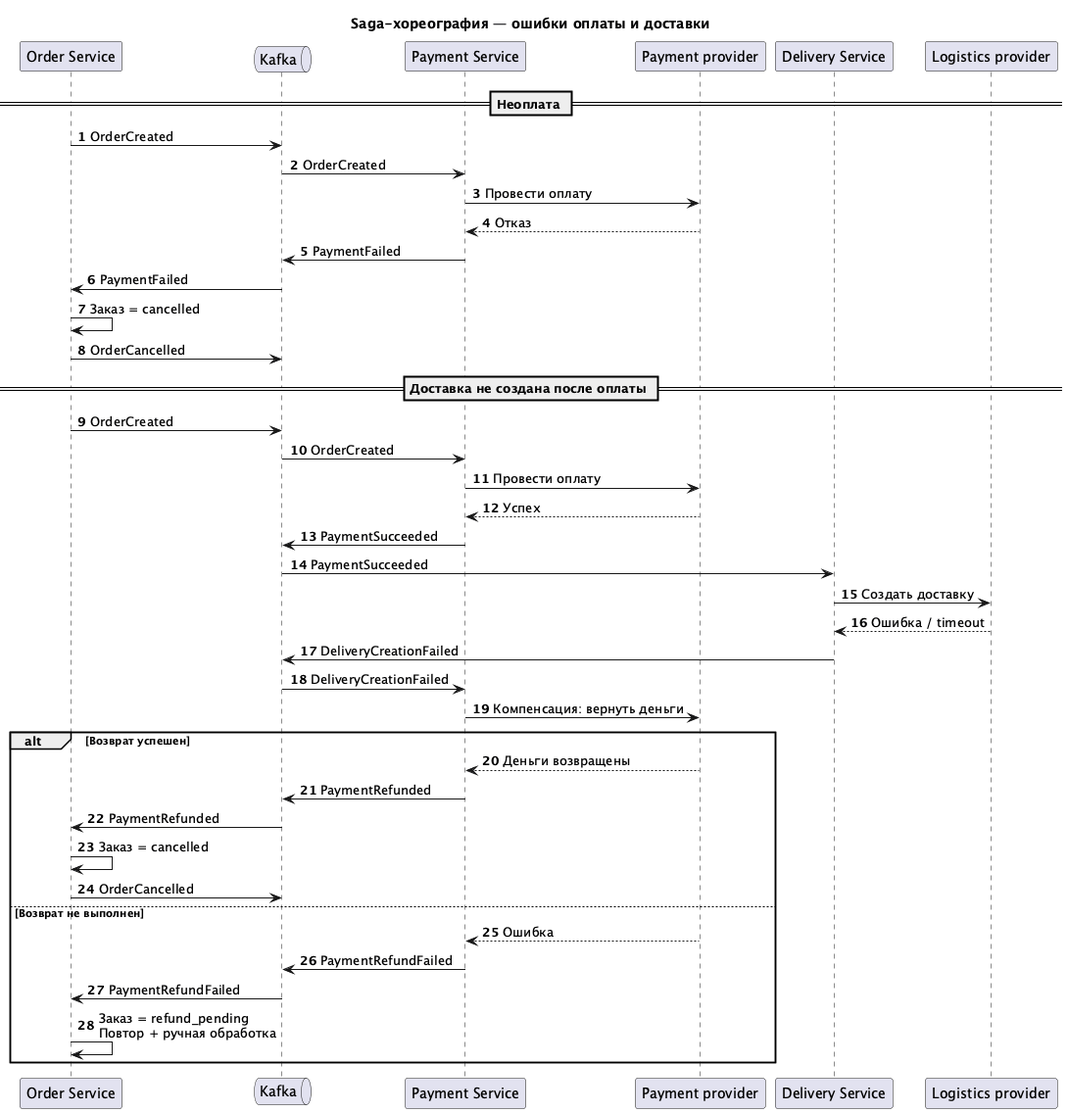
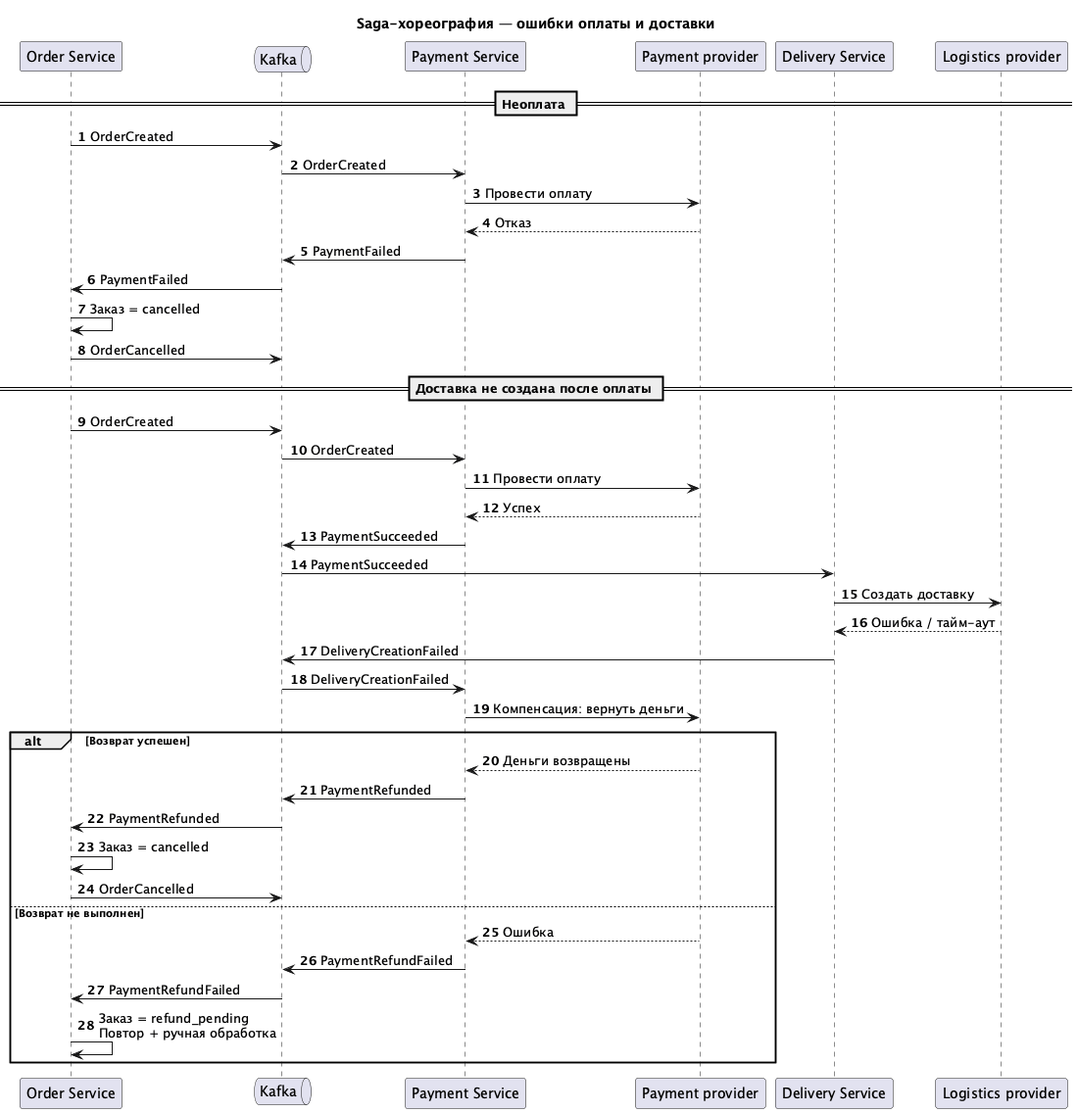
Polish submission wording

diff --git a/Task2/ADR.md b/Task2/ADR.md
@@ -21,34 +21,34 @@
 | № | Действующие лица или системы | Use Case | Описание |
 | :-: | :- | :- | :- |
 | 1 | Покупатель, клиентское приложение | Просмотреть список заказов | Покупатель открывает личный кабинет и видит свои заказы: дату оформления, сумму, способ доставки и итоговый статус. |
-| 2 | Покупатель, клиентское приложение | Просмотреть детали заказа | Покупатель открывает заказ и видит товары, количество, цену на момент покупки, итоговую сумму, способ оплаты, способ доставки и финальный статус. |
-| 3 | Покупатель, сервис чеков | Скачать чек | По явному действию покупателя система возвращает ссылку на чек. Чек не подгружается заранее для каждого заказа в списке. |
-| 4 | Покупатель, Order Service, Review Service | Повторить заказ или оставить отзыв | Из деталей заказа покупатель запускает отдельный командный сценарий: повтор заказа или отзыв о товаре. История сама заказы не изменяет. |
+| 2 | Покупатель, клиентское приложение | Просмотреть детали заказа | Покупатель открывает заказ и видит товары, количество, цену на момент покупки, итоговую сумму, способ оплаты, способ доставки и конечный статус. |
+| 3 | Покупатель, сервис чеков | Скачать чек | Покупатель нажимает на скачивание чека, после этого система отдаёт ссылку. Для списка заказов чеки заранее не подгружаются. |
+| 4 | Покупатель, Order Service, Review Service | Повторить заказ или оставить отзыв | Из деталей заказа покупатель запускает отдельное действие: повтор заказа или отзыв о товаре. История сама заказы не меняет. |
 | 5 | Доменные сервисы, History Projection Service | Обновить историю по событиям | История обновляется после событий заказа, оплаты, доставки, отмены и возврата. Источники событий не знают о новых клиентских каналах. |
-| 6 | Мобильное приложение, сайт, чат-бот, ассистент | Получить единый клиентский API | Новый канал обращается к Customer BFF, а не собирает данные напрямую из сервисов заказов, каталога, оплаты и доставки. |
+| 6 | Мобильное приложение, сайт, чат-бот, ассистент | Получить единый клиентский API | Новый канал обращается к Customer BFF и не собирает данные напрямую из сервисов заказов, каталога, оплаты и доставки. |
 
 ### **Нефункциональные требования**
 
 | № | Требование |
 | :-: | :- |
 | 1 | Время ответа пользовательских операций: p98 не больше 0,3 секунды, p99,99 не больше 1 секунды при штатной нагрузке. |
-| 2 | Решение должно масштабироваться от MVP с 2 500 заказами в день до 40 000+ заказов в день без роста числа синхронных межсервисных вызовов на один экран. |
+| 2 | Решение должно выдержать рост от MVP с 2 500 заказами в день до 40 000+ заказов в день без набора синхронных вызовов к разным сервисам для каждого экрана. |
 | 3 | Для истории допускается согласованность с задержкой: проекция может отставать от доменного события до 30 секунд. Клиент должен видеть понятный статус, если данные ещё обновляются. |
 | 4 | Доставка событий выполняется как минимум один раз. Обработчики проекции должны быть идемпотентными по `eventId`. |
-| 5 | Недоступность каталога, оплаты или доставки не должна ломать чтение уже собранной истории покупок. |
+| 5 | Если каталог, оплата или доставка временно недоступны, уже собранная история покупок всё равно должна открываться. |
 | 6 | Проекцию нужно уметь восстановить повторным чтением событий из Kafka. |
 
 ### **Решение**
 
 Выбрана комбинация **CQRS** и **API Composition**.
 
-`History Projection Service` подписывается на события Kafka и собирает отдельную модель чтения `OrderHistory`. В неё входят заказ, позиции заказа, цены на момент покупки, способ оплаты, способ доставки, итоговый статус и ссылка на чек. При создании заказа сохраняется снимок товарных позиций и цен, поэтому история не меняется из-за переименования товара или новой цены в каталоге.
+`History Projection Service` читает события из Kafka и собирает отдельную модель для чтения `OrderHistory`. В неё входят заказ, позиции заказа, цены на момент покупки, способ оплаты, способ доставки, итоговый статус и ссылка на чек. При создании заказа сохраняется снимок товарных позиций и цен, поэтому старая история не меняется из-за переименования товара или новой цены в каталоге.
 
-`Customer BFF` отдаёт клиентам методы `GET /me/orders` и `GET /me/orders/{orderId}`. В обычном сценарии BFF делает один запрос к базе модели чтения. За чеком он обращается к сервису чеков только по действию покупателя, чтобы не замедлять список заказов.
+`Customer BFF` отдаёт клиентам методы `GET /me/orders` и `GET /me/orders/{orderId}`. В обычном сценарии BFF делает один запрос к базе модели чтения. К сервису чеков он ходит только после действия покупателя, чтобы список заказов не ждал лишний внешний вызов.
 
-Источником истины для команд остаются доменные сервисы. Повтор заказа, отзыв и скачивание чека запускаются отдельными сценариями, а не меняют историю напрямую.
+Команды остаются в доменных сервисах. Повтор заказа, отзыв и скачивание чека запускаются отдельными сценариями и не меняют историю напрямую.
 
-Для защиты от повторной доставки событий проекция хранит `eventId`, версию события и offset. Повтор события не должен менять результат. Если модель чтения потеряна, её можно пересобрать из Kafka.
+Чтобы повтор события не портил данные, проекция хранит `eventId`, версию события и offset. Если модель чтения потеряна, её можно пересобрать из Kafka.
 
 Контейнерная диаграмма решения приложена в `c2-order-history-architecture.puml` и `c2-order-history-architecture.png`.
 
@@ -56,14 +56,14 @@
 
 | Альтернатива | Плюсы | Минусы | Решение |
 | --- | --- | --- | --- |
-| Только API Composition: BFF синхронно вызывает Order, Catalog, Payment и Delivery | Быстрый старт, данные всегда свежие | Для экрана деталей появляется цепочка HTTP-вызовов. Задержка и риск каскадного сбоя растут вместе с числом сервисов. В p98 0,3 секунды уложиться сложно. | Отклонено как основной путь |
-| Только CQRS: клиент читает модель чтения напрямую | Быстрое чтение, меньше промежуточных компонентов | Клиенты привязываются к структуре базы или внутреннего API проекции. Трудно развивать разные форматы для мобильного приложения, сайта и чат-бота. | Отклонено |
-| Event Sourcing для заказов и истории | Полный аудит, состояние можно восстановить из событий | Для MVP это слишком сложный вариант: нужны версии событий, снимки агрегатов, правила миграции и отдельный подход к запросам. | Отложено |
+| Только API Composition: BFF синхронно вызывает Order, Catalog, Payment и Delivery | Быстрый старт, данные всегда свежие | Для деталей заказа получается цепочка HTTP-вызовов. Чем больше сервисов, тем выше задержка и риск каскадного сбоя. В p98 0,3 секунды уложиться сложно. | Отклонено как основной путь |
+| Только CQRS: клиент читает модель чтения напрямую | Быстрое чтение, меньше промежуточных компонентов | Клиенты привязываются к структуре базы или внутреннего API проекции. Потом трудно делать разные форматы для мобильного приложения, сайта и чат-бота. | Отклонено |
+| Event Sourcing для заказов и истории | Полный аудит, состояние можно восстановить из событий | Для MVP это слишком тяжёлый вариант: нужны версии событий, снимки агрегатов, правила миграции и отдельный подход к запросам. | Отложено |
 | Общая база данных и SQL JOIN между сервисами | Просто на старте | Нарушает автономность сервисов, создаёт общую точку отказа, мешает независимому развитию команд. | Отклонено |
 
 ### **Недостатки, ограничения, риски**
 
-1. История обновляется не мгновенно. Для покупателя это допустимо, но интерфейс должен показывать состояние обновления, если заказ только что изменился.
-2. Появляется ещё один сервис и ещё одна база данных. Нужны метрики отставания consumer, DLQ, алерты и регламент восстановления проекции.
+1. История обновляется не сразу. Для покупателя это допустимо, но интерфейс должен показывать состояние обновления, если заказ только что изменился.
+2. Появляется ещё один сервис и ещё одна база данных. Нужны метрики отставания потребителя Kafka, DLQ, алерты и регламент восстановления проекции.
 3. Данные дублируются. Это осознанная денормализация ради быстрого чтения. Корректность обеспечивают события, идемпотентные обработчики и возможность пересборки.
 4. При изменении схемы событий требуется версионирование через `eventVersion` и проверка обратной совместимости.

diff --git a/Task3/README.md b/Task3/README.md
@@ -4,10 +4,10 @@
 
 - `deployment.yaml` запускает `ghcr.io/yandex-practicum/scaletestapp:latest`, стартует с одной реплики и задаёт лимит памяти `30Mi`.
 - `service.yaml` открывает приложение внутри кластера на порту `8080`.
-- `hpa.yaml` масштабирует deployment по памяти: целевая утилизация `80%`, диапазон от 1 до 10 реплик.
+- `hpa.yaml` масштабирует deployment по памяти: цель `80%`, от 1 до 10 реплик.
 - `locustfile.py` содержит сценарий из задания: пользователь вызывает `GET /`.
 
-`resources.requests.memory` выставлен в `8Mi`, а лимит оставлен `30Mi`. HPA считает процент утилизации от request, поэтому такой request позволяет увидеть рост раньше, чем контейнер упрётся в лимит памяти.
+`resources.requests.memory` выставлен в `8Mi`, лимит оставлен `30Mi`. HPA считает процент утилизации от request, поэтому с таким request видно масштабирование до того, как контейнер упирается в лимит памяти.
 
 ## Команды запуска
 
@@ -22,7 +22,7 @@ kubectl top pods
 kubectl get hpa -w
 ```
 
-Для локального доступа к приложению использовался tunnel Minikube:
+Для локального доступа к приложению использовался туннель Minikube:
 
 ```bash
 minikube service scaletestapp --url
@@ -43,7 +43,7 @@ Locust запускался из корня репозитория:
   --html Task3/evidence/locust-service-report.html
 ```
 
-Для проверки масштабирования также снимался watch HPA во время более тяжёлой нагрузки:
+Во время более тяжёлой нагрузки отдельно снималось состояние HPA:
 
 ```bash
 kubectl get hpa scaletestapp
@@ -55,12 +55,12 @@ kubectl describe hpa scaletestapp
 
 ## Доказательства
 
-Фактические артефакты лежат в `Task3/evidence/`:
+Что лежит в `Task3/evidence/`:
 
 - `before-load.log` — состояние перед нагрузкой: одна реплика.
-- `hpa-watch-balanced.log` — динамика под нагрузкой: HPA увидел `memory: 367%/80%` и начал поднимать deployment с 1 до 2 и 4 pod-ов.
-- `after-load.log`, `hpa-describe.log`, `events-after-load.log` — итоговое состояние после повторного прогона: deployment дошёл до 10 pod-ов, есть события `SuccessfulRescale`.
-- `kubernetes-dashboard-scaletestapp-full.png` — реальный скриншот Minikube Dashboard: deployment `scaletestapp`, `Pods status: 10 / 10`.
+- `hpa-watch-balanced.log` — динамика под нагрузкой: HPA увидел `memory: 367%/80%` и начал увеличивать число pod-ов с 1 до 2 и 4.
+- `after-load.log`, `hpa-describe.log`, `events-after-load.log` — состояние после повторного прогона: deployment дошёл до 10 pod-ов, есть события `SuccessfulRescale`.
+- `kubernetes-dashboard-scaletestapp-full.png` — скриншот Minikube Dashboard: deployment `scaletestapp`, `Pods status: 10 / 10`.
 - `locust-service-report.html` и `locust-service-report.png` — отчёт Locust: около 4 тысяч запросов, ошибок 0.
 - `locust-service_*.csv` — CSV-выгрузка Locust.
 
@@ -73,6 +73,6 @@ curl http://localhost:8080/metrics | grep http_requests_total
 
 ## Замечание по локальной машине
 
-Образ `ghcr.io/yandex-practicum/scaletestapp:latest` не содержит `linux/arm64` manifest. На Apple Silicon образ был заранее скачан как `linux/amd64` и загружен в Minikube, а в deployment указан `imagePullPolicy: IfNotPresent`. Также отключена инъекция Istio sidecar через `sidecar.istio.io/inject: "false"`, потому что в локальном default namespace уже был включён Istio, а sidecar искажал бы потребление памяти тестового контейнера.
+Образ `ghcr.io/yandex-practicum/scaletestapp:latest` не содержит `linux/arm64` manifest. На Apple Silicon пришлось заранее скачать вариант `linux/amd64`, загрузить его в Minikube и оставить в deployment `imagePullPolicy: IfNotPresent`. Ещё отключена инъекция Istio sidecar через `sidecar.istio.io/inject: "false"`: в локальном `default` namespace уже был включён Istio, и sidecar добавлял бы свою память к тестовому контейнеру.
 
-HPA масштабирует pod-ы приложения, а не базу данных. В задании фраза про «реплики базы данных» относится не к этому тестовому образу; в evidence показано изменение числа реплик deployment `scaletestapp`.
+HPA масштабирует pod-ы приложения, а не базу данных. Фраза в задании про «реплики базы данных» к этому тестовому образу не относится; в evidence показано изменение числа реплик deployment `scaletestapp`.

diff --git a/Task4/README.md b/Task4/README.md
@@ -2,17 +2,17 @@
 
 ## Rate Limiting
 
-В исходной конфигурации один zone с лимитом `100r/s` обслуживал оба канала, поэтому она не выполняла требования. В `rate-limiting.conf` используются две независимые зоны по `$binary_remote_addr`:
+В исходной конфигурации одна зона с лимитом `100r/s` применялась к вебу и мобильному приложению одновременно. Поэтому лимиты из задания она не выполняла. В `rate-limiting.conf` заведены две отдельные зоны по `$binary_remote_addr`:
 
 - `/api/web/` — 50 запросов в секунду с IP;
 - `/api/mobile/` — 30 запросов в секунду с IP.
 
-`burst` разрешает короткий контролируемый всплеск, `nodelay` не создаёт скрытую очередь и быстро возвращает `429` после исчерпания лимита. Для авторизованного API в промышленной конфигурации разумнее лимитировать по проверенному API-ключу или user id на шлюзе: IP может быть общим для нескольких пользователей.
+`burst` разрешает короткий всплеск, а `nodelay` не копит длинную очередь и сразу возвращает `429`, когда лимит закончился. В боевой системе лучше лимитировать не только по IP, а по проверенному API-ключу или user id на шлюзе: один IP может быть общим для нескольких пользователей.
 
 ## Circuit Breaker
 
-NGINX Open Source не реализует полноценное общее состояние `closed/open/half-open` и строгую семантику «пять подряд» для произвольного внешнего URL. Здесь используется базовая инфраструктурная форма для `upstream`: `max_fails=5 fail_timeout=30s` временно исключает сбойный upstream; после паузы NGINX снова пробует направить к нему запрос.
+В NGINX Open Source нет полноценного общего состояния `closed/open/half-open` и строгой проверки «пять ошибок подряд» для любого внешнего URL. Здесь используется базовый вариант на `upstream`: `max_fails=5 fail_timeout=30s` временно исключает сбойный сервер; после паузы NGINX снова пробует отправить ему запрос.
 
-В конфигурации добавлен `backup`-сервер `127.0.0.1:65535`. Он нужен из-за ограничения NGINX OSS: если в группе только один `server`, параметры `max_fails` и `fail_timeout` не дают ожидаемого отключения. Когда основной логистический endpoint временно исключён, backup быстро возвращает ошибку соединения, а клиент получает fallback.
+В конфигурации добавлен резервный сервер `127.0.0.1:65535`. Он нужен из-за ограничения NGINX OSS: если в группе только один `server`, параметры `max_fails` и `fail_timeout` не дают ожидаемого отключения. Когда основной адрес логистики временно исключён, резервный адрес быстро возвращает ошибку соединения, а клиент получает запасной ответ.
 
-Тайм-ауты подключения, отправки и чтения ограничены тремя секундами. Неработающий upstream и ответы `502–504` преобразуются в контролируемый fallback `503` с `Retry-After: 30`. Если нужна строгая модель с процентом ошибок, общей памятью состояния и полноценным half-open режимом, лучше применить Envoy/Istio, NGINX Plus либо Circuit Breaker в коде вызывающего сервиса.
+Тайм-ауты подключения, отправки и чтения ограничены тремя секундами. Ошибки внешнего сервиса и ответы `502–504` переводятся в понятный ответ `503` с `Retry-After: 30`. Если нужна строгая модель с процентом ошибок, общей памятью состояния и полноценным half-open режимом, лучше вынести это в Envoy/Istio, NGINX Plus или в код вызывающего сервиса.

diff --git a/Task1/saga-event-registry.md b/Task1/saga-event-registry.md
@@ -1,22 +1,22 @@
 # Реестр событий Saga-хореографии «Оформление заказа»
 
-**Корреляция и порядок.** Во все события включаются `eventId`, `eventType`, `eventVersion`, `occurredAt`, `correlationId` и `orderId`. Ключ партиционирования Kafka — `orderId`: для одного заказа сохраняется порядок. Доставка допускает повтор (`at-least-once`), поэтому потребители дедуплицируют `eventId`.
+**Корреляция и порядок.** В каждое событие добавляются `eventId`, `eventType`, `eventVersion`, `occurredAt`, `correlationId` и `orderId`. Ключ партиционирования Kafka — `orderId`, поэтому события одного заказа приходят в нужном порядке. Повторная доставка возможна (`at-least-once`), поэтому потребители проверяют `eventId` и не выполняют одно действие дважды.
 
 | Логический этап | Тип события | Название | Издатель | Основной потребитель / действие |
 | --- | --- | --- | --- | --- |
 | Заказ зафиксирован | domain | `OrderCreated` | Order Service | Payment Service начинает оплату. |
-| Оплата успешно проведена | domain | `PaymentSucceeded` | Payment Service | Delivery Service создаёт доставку; Order Service фиксирует прогресс Saga. |
+| Оплата успешно проведена | domain | `PaymentSucceeded` | Payment Service | Delivery Service создаёт доставку; Order Service отмечает шаг Saga как выполненный. |
 | Оплата отклонена | failure | `PaymentFailed` | Payment Service | Order Service отменяет заказ. |
 | Доставка создана | domain | `DeliveryCreated` | Delivery Service | Order Service подтверждает заказ. |
 | Создание доставки не удалось | failure | `DeliveryCreationFailed` | Delivery Service | Payment Service запускает компенсационный возврат; Order Service ждёт его результат. |
 | Заказ подтверждён | domain | `OrderConfirmed` | Order Service | Notification Service уведомляет продавца; история заказа обновляется. |
 | Заказ отменён из-за неоплаты | domain | `OrderCancelled` | Order Service | Delivery Service игнорирует/отменяет незавершённую доставку; история заказа обновляется. |
 | Возврат средств выполнен | compensation | `PaymentRefunded` | Payment Service | Order Service окончательно отменяет заказ. |
-| Возврат средств не выполнен автоматически | failure | `PaymentRefundFailed` | Payment Service | Order Service ставит заказ в `refund_pending`, создаётся задача на повтор/ручную обработку. |
-| Доставка отменена (если уже была создана) | compensation | `DeliveryCancelled` | Delivery Service | Аудит и история заказа фиксируют компенсацию. |
+| Возврат средств не выполнен автоматически | failure | `PaymentRefundFailed` | Payment Service | Order Service переводит заказ в `refund_pending`, дальше нужен повтор или ручная обработка. |
+| Доставка отменена (если уже была создана) | compensation | `DeliveryCancelled` | Delivery Service | В истории заказа видно, что доставка была отменена как компенсация. |
 
 ## Состояния заказа
 
 `new → payment_pending → paid → delivery_pending → confirmed` — успешный путь.
 
-Ошибочные пути: `payment_pending → cancelled`; `delivery_pending → refund_pending → cancelled`. Статус `refund_pending` сохраняет наблюдаемое, не скрытое состояние: деньги ещё не возвращены, поэтому заказ нельзя считать окончательно отменённым.
+Ошибочные пути: `payment_pending → cancelled`; `delivery_pending → refund_pending → cancelled`. Статус `refund_pending` оставлен отдельно: деньги ещё не вернулись, значит заказ рано считать полностью отменённым.

diff --git a/README.md b/README.md
@@ -4,11 +4,11 @@
 
 | Каталог | Содержание |
 | --- | --- |
-| `Task1` | Event-driven архитектура, Saga-хореография оформления заказа, реестр и UML-диаграммы. |
+| `Task1` | Событийная архитектура, Saga-хореография оформления заказа, реестр и UML-диаграммы. |
 | `Task2` | Архитектура истории покупок и ADR выбора способа чтения. |
 | `Task3` | Манифесты Kubernetes, HPA, Locust-сценарий и инструкция для подтверждения масштабирования. |
 | `Task4` | Конфигурации NGINX для Rate Limiting и защиты внешней логистики. |
 
-Диаграммы сохранены в двух видах: исходники PlantUML (`.puml`) и PNG, сгенерированные локально через PlantUML.
+Диаграммы лежат в двух вариантах: исходники PlantUML (`.puml`) и готовые PNG.
 
-В `Task3/evidence` добавлены реальные артефакты проверки в Minikube: логи HPA, события Kubernetes, скриншот dashboard и отчёт Locust.
+В `Task3/evidence` лежат результаты прогона в Minikube: логи HPA, события Kubernetes, скриншот дашборда и отчёт Locust.
